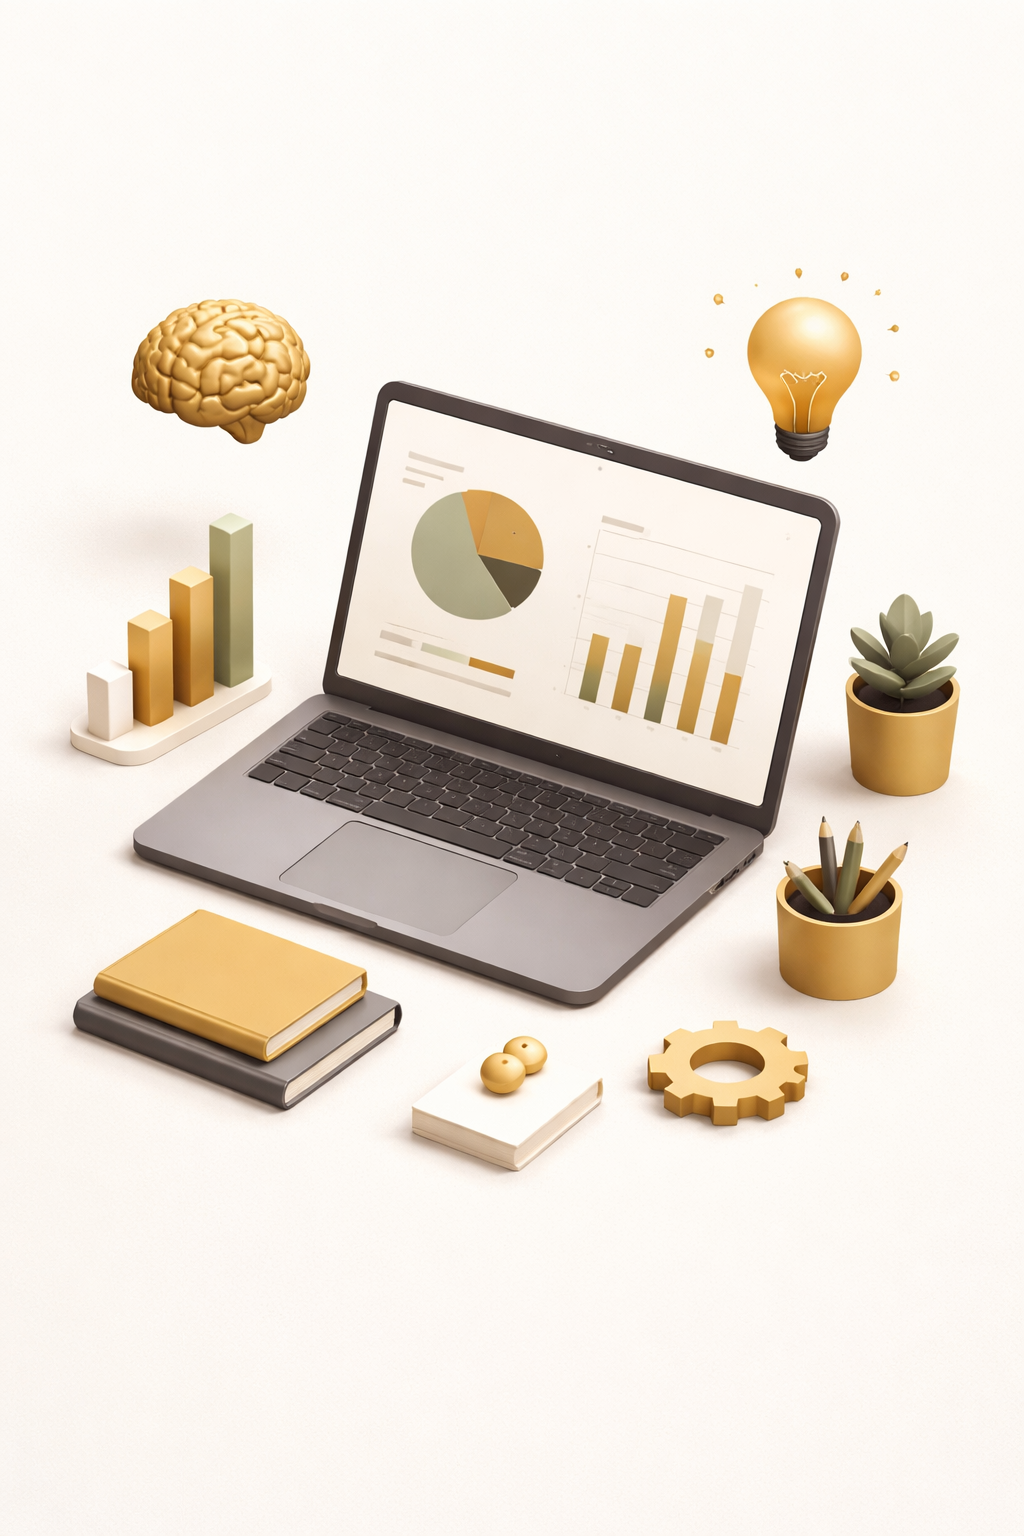
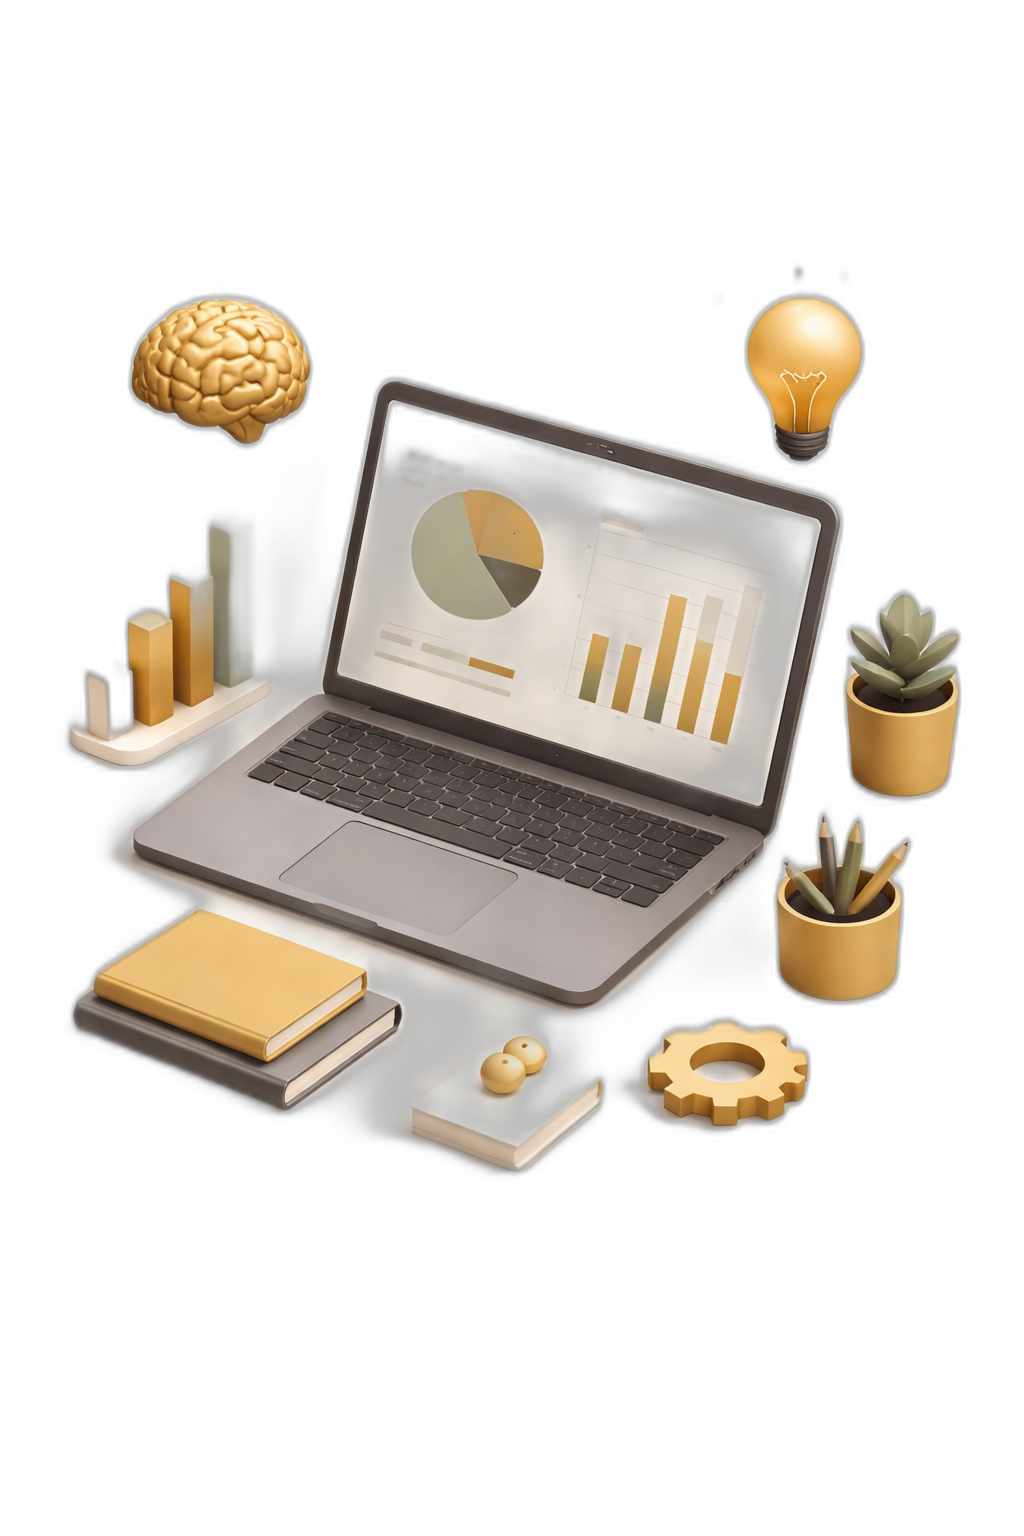
fix: 全站視覺優化 — 白底、去背 hero、配色統一
- Hero section 背景改白色，插圖去背融入背景
- Articles 列表頁和內文頁背景改白色
- 引用區塊改淺灰底，表格交替行改白/淺灰
- 內嵌圖表配色統一為深色系（移除暖橘色調）
- 表格 header 統一深黑底金字

diff --git a/src/lib/notion.ts b/src/lib/notion.ts
@@ -191,13 +191,13 @@ export const STATIC_ARTICLES: Article[] = [
 <div><div style="display:flex;justify-content:space-between;font-size:0.8rem;margin-bottom:0.25rem;"><span style="color:#111;font-weight:600;">進度管理（週報/追蹤）</span><span style="color:#C5A55A;font-weight:600;">AI 可加速 🟢</span></div><div style="background:#e5e7eb;border-radius:4px;height:8px;overflow:hidden;"><div style="width:10%;height:100%;background:linear-gradient(90deg,#C5A55A,#D4B86A);border-radius:4px;"></div></div></div>
 </div>
 </div>
-<div style="margin:1.5rem 0 2.5rem;background:linear-gradient(135deg,#fff3e0,#ffe0b2);border-radius:0.75rem;padding:1.25rem;">
-<div style="font-weight:700;color:#e65100;font-size:0.9rem;margin-bottom:0.75rem;text-align:center;">AI 與人類的分工原則</div>
+<div style="margin:1.5rem 0 2.5rem;background:#f8f9fa;border:1px solid #e5e7eb;border-radius:0.75rem;padding:1.25rem;">
+<div style="font-weight:700;color:#1a1814;font-size:0.9rem;margin-bottom:0.75rem;text-align:center;">AI 與人類的分工原則</div>
 <div style="position:relative;height:2.5rem;background:#e5e7eb;border-radius:6px;overflow:hidden;">
-<div style="position:absolute;left:0;top:0;width:70%;height:100%;background:linear-gradient(90deg,#C5A55A,#D4B86A);display:flex;align-items:center;padding-left:1rem;">
-<span style="color:#fff;font-size:0.8rem;font-weight:600;">AI 處理：0 → 0.7</span>
+<div style="position:absolute;left:0;top:0;width:70%;height:100%;background:linear-gradient(90deg,#1a1814,#2a2520);display:flex;align-items:center;padding-left:1rem;">
+<span style="color:#E8D48B;font-size:0.8rem;font-weight:600;">AI 處理：0 → 0.7</span>
 </div>
-<div style="position:absolute;right:0;top:0;width:30%;height:100%;background:linear-gradient(90deg,#f59e0b,#fbbf24);display:flex;align-items:center;justify-content:center;">
+<div style="position:absolute;right:0;top:0;width:30%;height:100%;background:linear-gradient(90deg,#C5A55A,#A8893E);display:flex;align-items:center;justify-content:center;">
 <span style="color:#fff;font-size:0.8rem;font-weight:600;">人類：0.7 → 1.0</span>
 </div>
 </div>
@@ -211,10 +211,10 @@ export const STATIC_ARTICLES: Article[] = [
 <div style="font-weight:700;color:#111;font-size:0.95rem;margin-bottom:1rem;">5 大場景效率對比</div>
 <table style="width:100%;border-collapse:collapse;border-radius:0.75rem;overflow:hidden;font-size:0.85rem;line-height:1.6;">
 <thead><tr>
-<th style="background:#C5A55A;color:#fff;padding:0.85rem 1rem;text-align:left;font-weight:600;">場景</th>
-<th style="background:#C5A55A;color:#fff;padding:0.85rem 1rem;text-align:center;font-weight:600;">以前耗時</th>
-<th style="background:#C5A55A;color:#fff;padding:0.85rem 1rem;text-align:center;font-weight:600;">現在耗時</th>
-<th style="background:#e65100;color:#fff;padding:0.85rem 1rem;text-align:center;font-weight:600;">主要工具</th>
+<th style="background:#1a1814;color:#E8D48B;padding:0.85rem 1rem;text-align:left;font-weight:600;">場景</th>
+<th style="background:#1a1814;color:#E8D48B;padding:0.85rem 1rem;text-align:center;font-weight:600;">以前耗時</th>
+<th style="background:#1a1814;color:#E8D48B;padding:0.85rem 1rem;text-align:center;font-weight:600;">現在耗時</th>
+<th style="background:#1a1814;color:#E8D48B;padding:0.85rem 1rem;text-align:center;font-weight:600;">主要工具</th>
 </tr></thead>
 <tbody>
 <tr><td style="padding:0.75rem 1rem;border-bottom:1px solid #e5e7eb;font-weight:600;color:#111;">競品分析</td><td style="padding:0.75rem 1rem;border-bottom:1px solid #e5e7eb;text-align:center;color:#dc2626;">4 小時</td><td style="padding:0.75rem 1rem;border-bottom:1px solid #e5e7eb;text-align:center;color:#059669;font-weight:600;">1 小時</td><td style="padding:0.75rem 1rem;border-bottom:1px solid #e5e7eb;text-align:center;color:#6b7280;">ChatGPT + Perplexity</td></tr>

diff --git a/src/styles/global.css b/src/styles/global.css
@@ -155,21 +155,21 @@
   .article-content-light li { margin-bottom: 0.6rem; }
   .article-content-light blockquote {
     border-left: 4px solid #C5A55A; padding: 1rem 1.25rem; margin: 1.5rem 0;
-    background: linear-gradient(135deg, #FDF8EC, #FFF8E1); border-radius: 0 0.75rem 0.75rem 0;
-    box-shadow: 0 2px 8px rgba(197, 165, 90, 0.12);
+    background: #f8f8f8; border-radius: 0 0.75rem 0.75rem 0;
+    box-shadow: none;
   }
-  .article-content-light blockquote p { color: #5D4E37; font-weight: 500; margin-bottom: 0; }
+  .article-content-light blockquote p { color: #3d3832; font-weight: 500; margin-bottom: 0; }
   .article-content-light blockquote strong { color: #A8893E; }
   .article-content-light img { border-radius: 1rem; margin: 2rem 0; width: 100%; min-height: 0; }
   .article-content-light img[src=""], .article-content-light img:not([src]) { display: none; }
-  .article-content-light table { width: 100%; border-collapse: separate; border-spacing: 0; margin: 1.5rem 0; font-size: 0.9rem; line-height: 1.6; border-radius: 0.75rem; border: 1px solid #E0D5C5; overflow: hidden; display: table; }
+  .article-content-light table { width: 100%; border-collapse: separate; border-spacing: 0; margin: 1.5rem 0; font-size: 0.9rem; line-height: 1.6; border-radius: 0.75rem; border: 1px solid #e5e7eb; overflow: hidden; display: table; }
   .article-content-light thead th { background: linear-gradient(135deg, #1a1814, #2a2520); color: #E8D48B; padding: 0.85rem 1.1rem; text-align: left; font-weight: 700; font-size: 0.85rem; white-space: nowrap; letter-spacing: 0.02em; border-bottom: 2px solid #C5A55A; }
-  .article-content-light tbody td { padding: 0.75rem 1.1rem; border-bottom: 1px solid #EDE6D8; color: #3d3832; vertical-align: top; }
-  .article-content-light tbody tr:nth-child(even) { background: #FAF6EF; }
-  .article-content-light tbody tr:nth-child(odd) { background: #FFFEF7; }
-  .article-content-light tbody tr:hover { background: #F5EDD8; }
+  .article-content-light tbody td { padding: 0.75rem 1.1rem; border-bottom: 1px solid #f0f0f0; color: #3d3832; vertical-align: top; }
+  .article-content-light tbody tr:nth-child(even) { background: #fafafa; }
+  .article-content-light tbody tr:nth-child(odd) { background: #ffffff; }
+  .article-content-light tbody tr:hover { background: #f5f5f5; }
   .article-content-light tbody td strong { color: #1a1814; font-weight: 600; }
-  .article-content-light tbody td:first-child { font-weight: 600; color: #5D4E37; }
+  .article-content-light tbody td:first-child { font-weight: 600; color: #3d3832; }
   .article-content-light .quiz-divider {
     margin: 3rem 0 2rem; padding: 1.25rem 0; text-align: center; position: relative;
     border-top: 2px solid var(--color-brand-accent-dark); border-bottom: 2px solid var(--color-brand-accent-dark);
